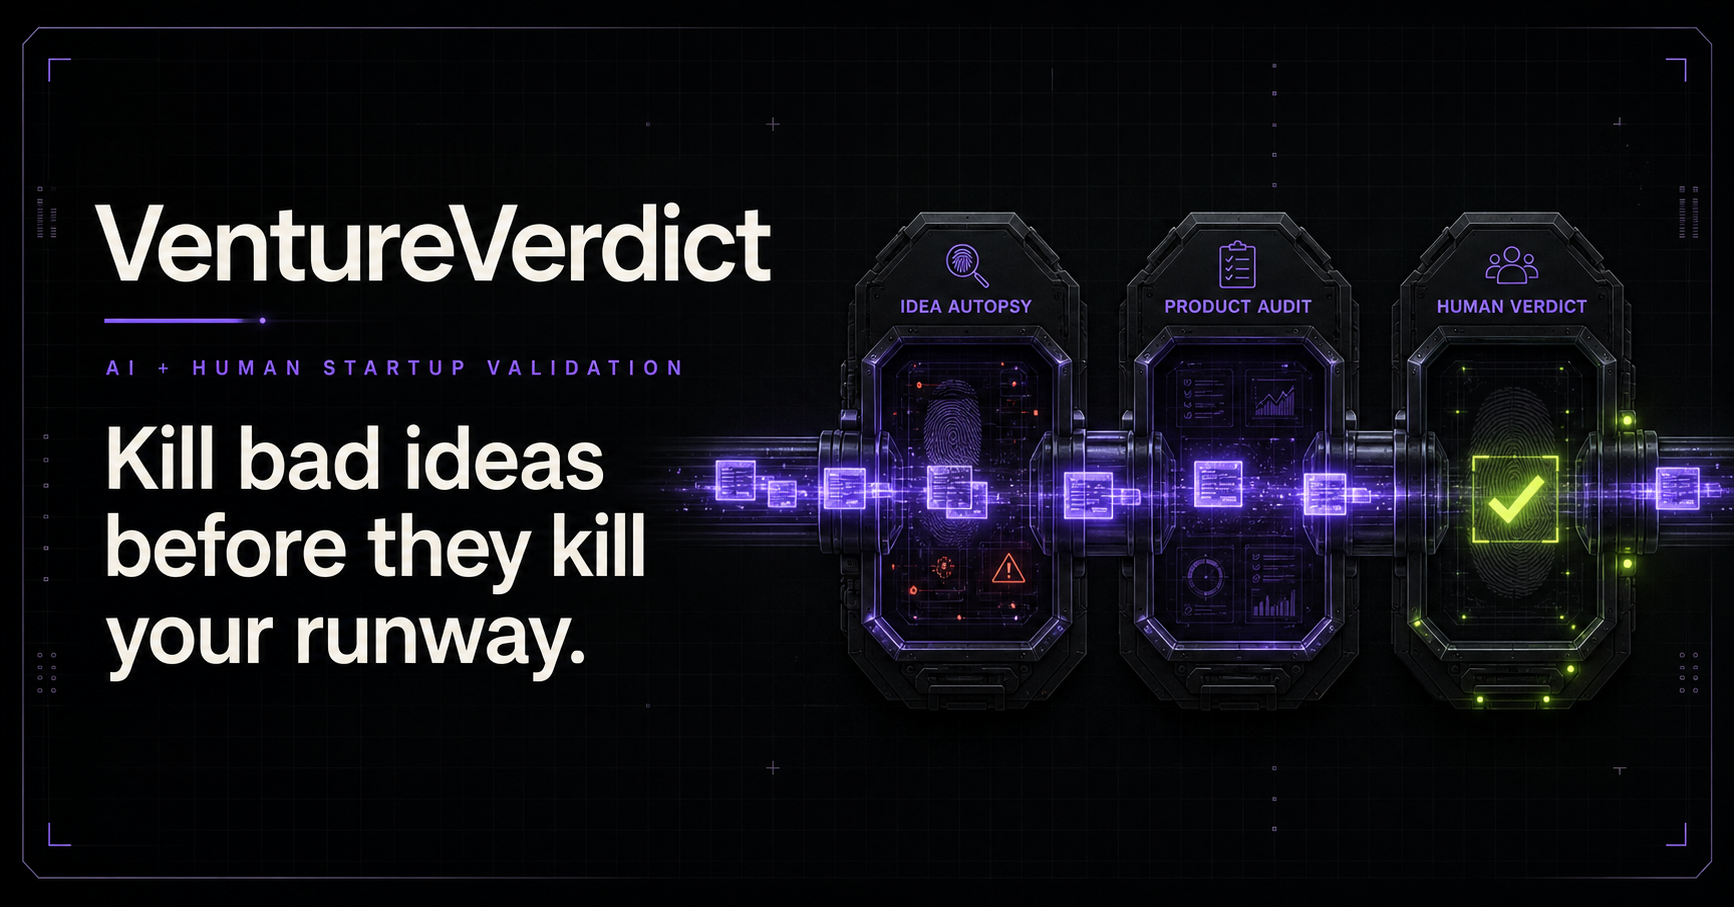
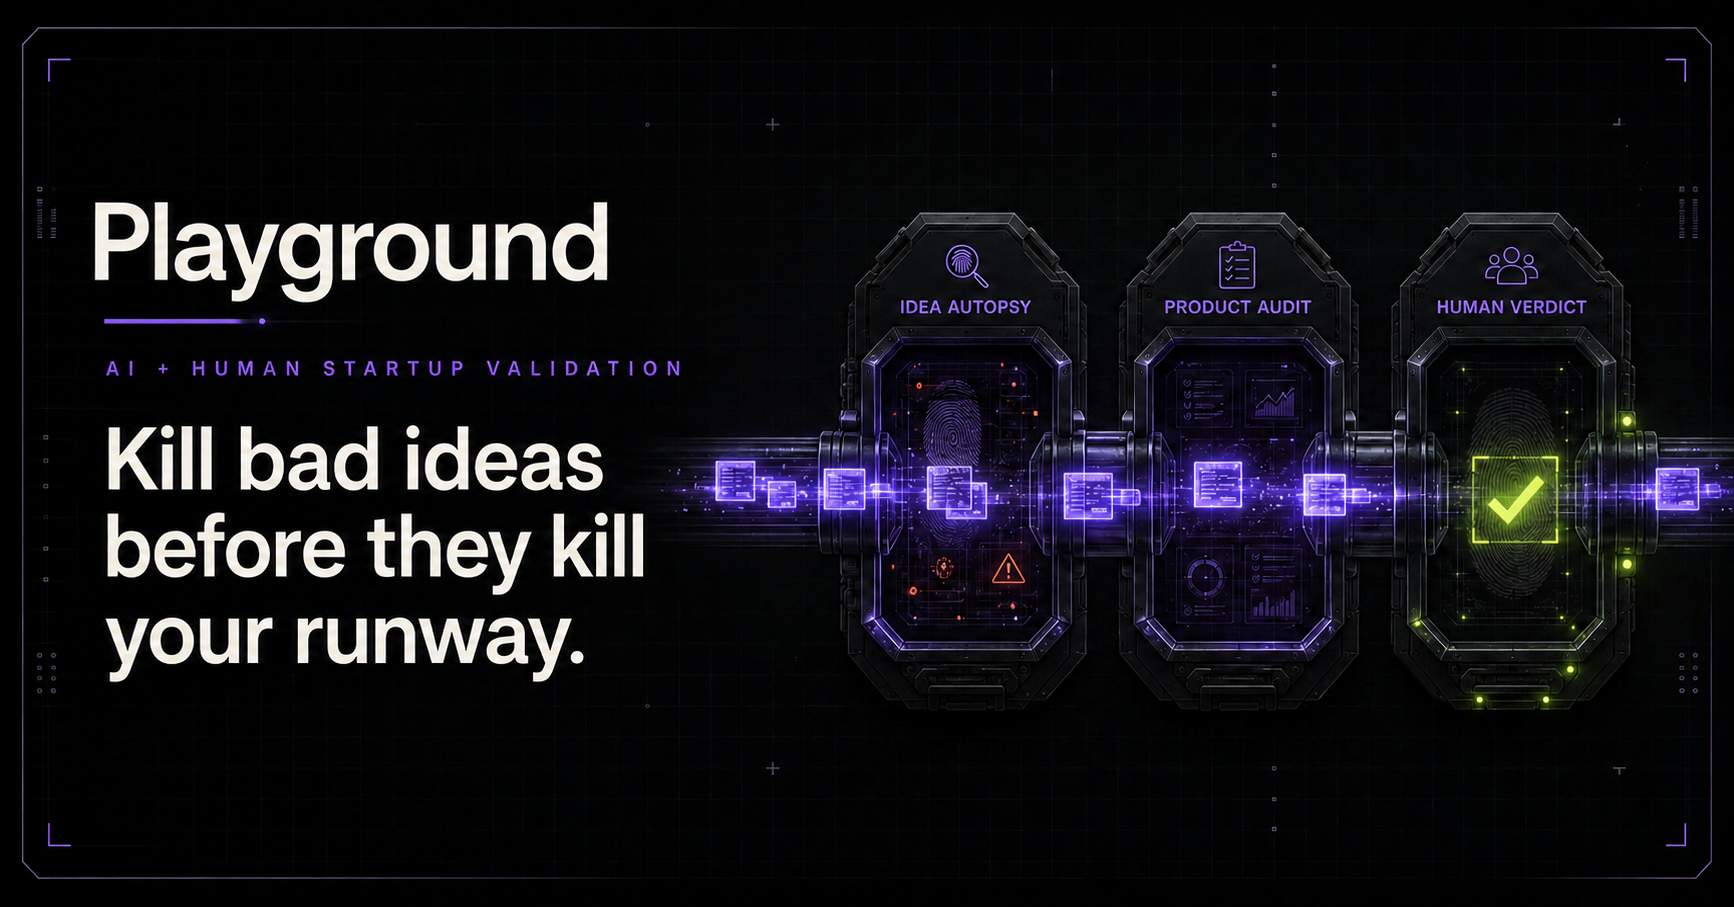
Rename product to Playground

diff --git a/components/playground/brand.tsx b/components/playground/brand.tsx
@@ -6,14 +6,14 @@ export function Brand({ href = "/" }: { href?: string }) {
     <Link
       href={href}
       className="vv-focus inline-flex items-center gap-2.5 rounded-lg text-warm"
-      aria-label="VentureVerdict home"
+      aria-label="Playground home"
     >
       <span className="relative grid size-8 place-items-center overflow-hidden rounded-[10px] border border-violet-400/40 bg-violet-500/15 text-violet-300 shadow-glow">
         <span className="absolute inset-0 bg-[radial-gradient(circle_at_30%_20%,rgba(255,255,255,.2),transparent_44%)]" />
         <ScanSearch className="relative size-[17px]" strokeWidth={2} />
       </span>
       <span className="text-[15px] font-semibold tracking-[-0.025em]">
-        Venture<span className="text-white/45">Verdict</span>
+        Playground
       </span>
     </Link>
   );

diff --git a/app/layout.tsx b/app/layout.tsx
@@ -13,14 +13,14 @@ export async function generateMetadata(): Promise<Metadata> {
     process.env.NEXT_PUBLIC_APP_URL ??
     (host ? `${protocol}://${host}` : "http://localhost:5176");
   const socialImage = new URL("/og.png", origin).toString();
-  const title = "VentureVerdict — Launch with evidence";
+  const title = "Playground — Launch with evidence";
   const description =
     "AI startup autopsies, product audits and human validation campaigns in one evidence-first platform.";
 
   return {
     title: {
       default: title,
-      template: "%s · VentureVerdict",
+      template: "%s · Playground",
     },
     description,
     metadataBase: new URL(origin),

diff --git a/app/api/pinch/payment-link/route.ts b/app/api/pinch/payment-link/route.ts
@@ -57,13 +57,13 @@ export async function POST() {
   const body = {
     amount: 500,
     payerId: PINCH_PAYER_ID,
-    description: "VentureVerdict validation campaign deposit",
+    description: "Playground validation campaign deposit",
     currency: "AUD",
     allowedPaymentMethods: ["credit-card", "bank-account"],
     returnUrl: `${NEXT_PUBLIC_APP_URL.replace(/\/$/, "")}/success`,
     metadata: JSON.stringify({
       projectId: "demo-ai-recruitment",
-      product: "VentureVerdict",
+      product: "Playground",
       package: "human-validation-deposit",
       generalReviewers: 100,
       specializedReviewers: 7,

diff --git a/components/playground/demo-flow.tsx b/components/playground/demo-flow.tsx
@@ -846,7 +846,7 @@ function SandboxModal({
               <div className="mt-5 rounded-[18px] border border-white/[0.08] bg-white/[0.035] p-4">
                 <div className="flex items-start justify-between">
                   <div>
-                    <p className="text-[11px] text-white/32">VentureVerdict</p>
+                    <p className="text-[11px] text-white/32">Playground</p>
                     <p className="mt-1 text-[14px] font-medium text-warm">
                       Startup-validation deposit
                     </p>

diff --git a/app/page.tsx b/app/page.tsx
@@ -13,9 +13,9 @@ import {
   Stagger,
   rise,
 } from "@/components/pg/motion";
-import { AmbientBackground } from "@/components/vv/ambient-background";
-import { PipelineVisual } from "@/components/vv/pipeline-visual";
-import { SiteHeader } from "@/components/vv/site-header";
+import { AmbientBackground } from "@/components/playground/ambient-background";
+import { PipelineVisual } from "@/components/playground/pipeline-visual";
+import { SiteHeader } from "@/components/playground/site-header";
 
 const signals = [
   {

diff --git a/vite.config.ts b/vite.config.ts
@@ -18,13 +18,13 @@ const localBindingConfig = {
     ? [
         {
           binding: d1,
-          database_name: "ventureverdict-d1",
+          database_name: "playground-d1",
           database_id: SITE_CREATOR_PLACEHOLDER_DATABASE_ID,
         },
       ]
     : [],
   r2_buckets: r2
-    ? [{ binding: r2, bucket_name: "ventureverdict-r2" }]
+    ? [{ binding: r2, bucket_name: "playground-r2" }]
     : [],
 };
 

diff --git a/components/playground/success-experience.tsx b/components/playground/success-experience.tsx
@@ -109,7 +109,7 @@ export function SuccessExperience() {
               round funded.
             </h1>
             <p className="mt-6 max-w-[510px] text-[16px] leading-7 text-white/46">
-              VentureVerdict is matching your product with the right reviewers.
+              Playground is matching your product with the right reviewers.
             </p>
           </motion.div>
 

diff --git a/app/success/page.tsx b/app/success/page.tsx
@@ -1,6 +1,6 @@
 import type { Metadata } from "next";
 import { Suspense } from "react";
-import { SuccessExperience } from "@/components/vv/success-experience";
+import { SuccessExperience } from "@/components/playground/success-experience";
 
 export const metadata: Metadata = {
   title: "Validation round funded",

diff --git a/app/demo/page.tsx b/app/demo/page.tsx
@@ -1,5 +1,5 @@
 import type { Metadata } from "next";
-import { DemoFlow } from "@/components/vv/demo-flow";
+import { DemoFlow } from "@/components/playground/demo-flow";
 
 export const metadata: Metadata = {
   title: "60-second validation demo",
